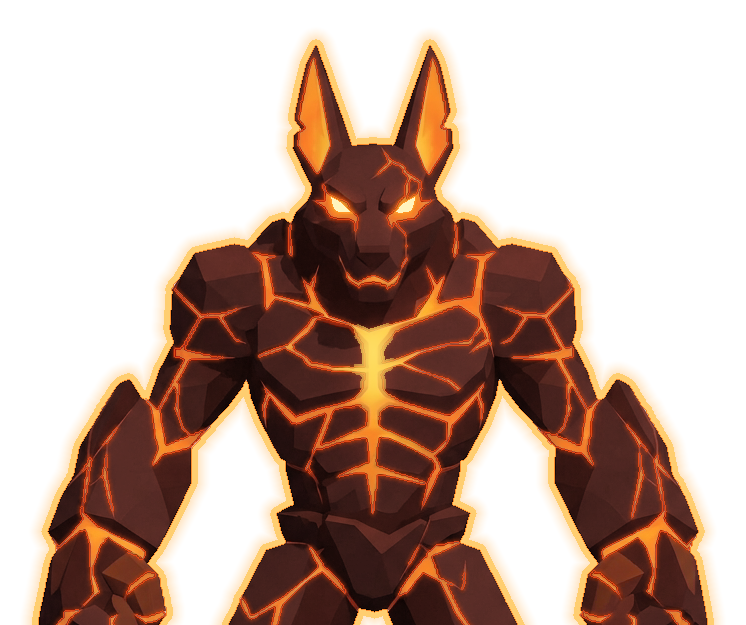
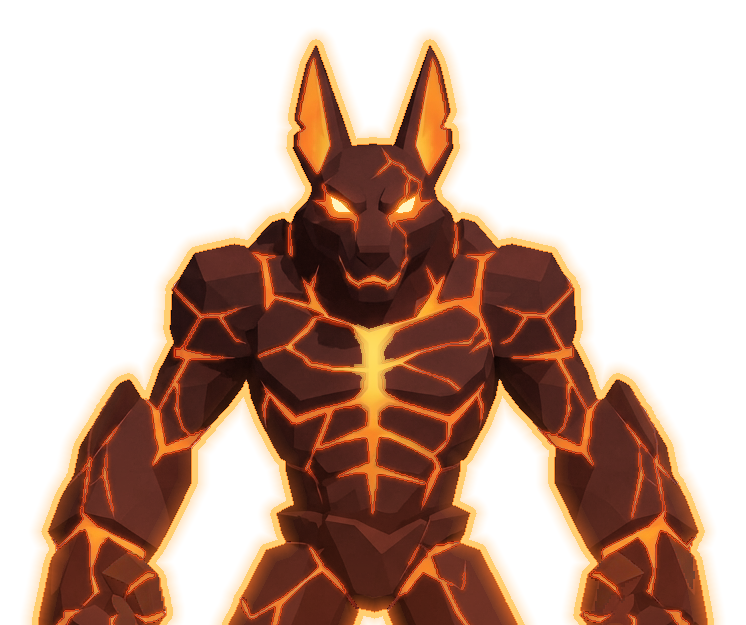
Claude checker iter 19: lava lights the jackal from below, orange rim on the lower arms and flanks
Claude-Session: https://claude.ai/code/session_01Um743RvWt9qeZtmSE8s8zW

diff --git a/tools/beast_sprite.py b/tools/beast_sprite.py
@@ -108,6 +108,19 @@ HOT_SQUASH = 0.45
 HOT_WASH = np.array([255, 120, 30], float)
 HOT_WASH_A = 0.35
 
+# Checker iter 19: TARGET's lava lights the figure from below -- the lower
+# arms, flanks and belly pick up an orange rim along their outer edges and a
+# faint warm wash, fading out by mid-chest. Ours was lit flat from the
+# front. Rock within RIM_W px of the edge takes RIM_RGB, and all rock takes
+# a little of UP_RGB; both grow toward the floor line and vanish UP_REACH
+# of the figure's height above it.
+RIM_W = 14
+RIM_A = 0.55
+RIM_RGB = np.array([235, 105, 35], float)
+UP_A = 0.22
+UP_RGB = np.array([190, 70, 30], float)
+UP_REACH = 0.55
+
 # Draw at the concept's own size. Upscaling it 2x with Lanczos added no
 # detail and softened every facet edge into a two-pixel ramp; the game
 # mipmaps the texture down to ~330 px anyway (sprite_match "detail", 2026-10-07).
@@ -296,6 +309,17 @@ def build(beast_id):
         hw = inside & ~hc & (heat > 0.45)
         t = ((heat[hw] - 0.45) / 0.55)[:, None] ** 1.5 * HOT_WASH_A
         out[hw, :3] += (HOT_WASH - out[hw, :3]) * t
+    rows = np.nonzero(inside.any(1))[0]
+    floor = cut * SCALE if cut else rows.max()
+    span = max(floor - rows.min(), 1)
+    yy = np.arange(out.shape[0])[:, None]
+    up = np.clip(1 - (floor - yy) / (UP_REACH * span), 0, 1) ** 1.6
+    edge = ndi.distance_transform_edt(inside)
+    lit = rock & (up > 0)
+    t = (UP_A * up + RIM_A * up * np.clip(1 - edge / (RIM_W * SCALE), 0, 1) ** 1.3)
+    t = np.clip(np.broadcast_to(t, inside.shape)[lit], 0, 0.8)[:, None]
+    tint = np.where(np.broadcast_to(edge < RIM_W * SCALE, inside.shape)[lit][:, None], RIM_RGB, UP_RGB)
+    out[lit, :3] += (tint - out[lit, :3]) * t
     for ex0, ey0, ex1, ey1 in spec.get("eyes", []):
         box = np.zeros_like(inside)
         box[ey0 * SCALE:ey1 * SCALE, ex0 * SCALE:ex1 * SCALE] = True

diff --git a/design/match-log/log.md b/design/match-log/log.md
@@ -92,3 +92,8 @@ Critic top 3: (1) MAJOR pose; (2) MAJOR fist fire; (3) MAJOR framing. Then (4) M
 Skipped 1–6 under the rulings above. Skipped 7: measured on the pair, our chest cracks are wider and denser than TARGET's (29% coverage, 10 px runs, vs 20% and 8 px). Skipped 8: rock brightness p10–p90 is 19–56, against TARGET's 21–56. Fixed 11, which every critic since iter 07 has named, in `game/assets/3d/cliff_flat.gdshader`. TARGET's lit cliff facets reach ~(47,48,63) on screen and ours topped out at (21,19,30). lit_color went (0.21,0.205,0.235) → (0.265,0.265,0.31) and now renders (41,41,60). Side and shade tones are unchanged.
 
 Run paused after iter 18 (18 of 25 spent). As in iter 12's pause, no critic can report "no MAJOR" while the raised flaming fist (ranked #1–2 by all 18 critics) stays ruled out by Nick's 2026-10-06 call. The last 7 iterations are kept for after he rules on the pose.
+
+## iter 19 — 2026-10-07 (pair iter-22.png; after: iter-23.png)
+Nick has still not ruled on the pose; the loop carries on under it.
+Critic top 3: (1) MAJOR pose; (2) MAJOR fist fire; (3) MAJOR extra UI. Then (4) MODERATE proportions, (5) MODERATE framing, (6) MODERATE cracks thin and even, (7) MODERATE facets flat, (8) MODERATE stone route, (9) MODERATE no lava up-light or orange rim on the lower body.
+Skipped 1–5 and 8 under the rulings above; 6–7 were measured at TARGET's values in iters 18 and 17. Fixed 9, named by critics since iter 07, in `tools/beast_sprite.py`: rock within 14 px of the edge takes an orange (235,105,35) rim, and all rock a faint (190,70,30) wash, both strongest at the floor line and gone 55% of the figure's height above it.
